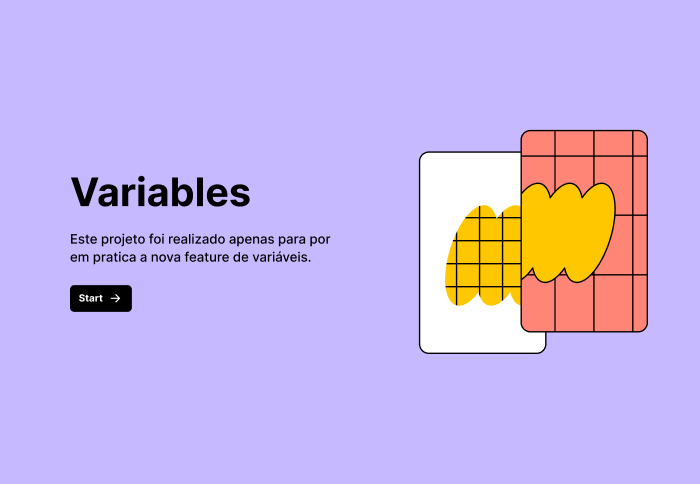
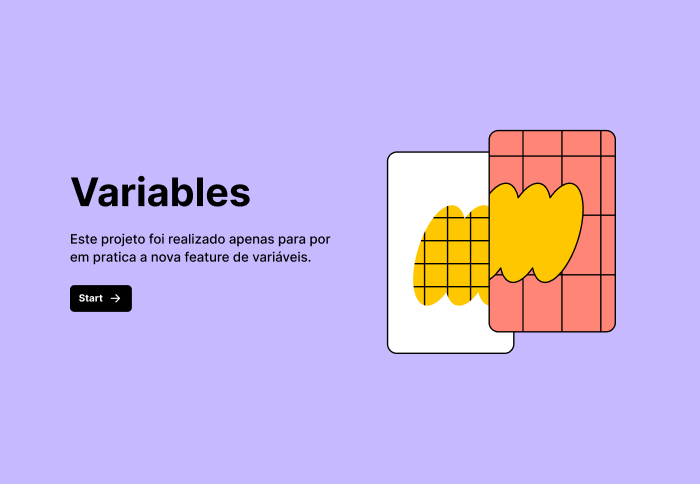
update

Changed region(s): [[0.54, 0.2479, 0.78, 0.7438], [0.78, 0.2479, 0.93, 0.7128], [0.78, 0.2789, 0.81, 0.4029]]

diff --git a/index.html b/index.html
@@ -163,17 +163,17 @@
       <div class="container">
         <a title="Clique para visualizar o projeto" href="https://www.behance.net/gallery/174834333/Gooday" target="_blank">
           <div class="card">
-            <img src="assets/img/gooday.jpg" alt="Projeto Gooday">
+            <img class="img-project" src="assets/img/gooday.jpg" alt="Projeto Gooday">
           </div>
         </a>
         <a title="Clique para visualizar o projeto" href="https://www.figma.com/proto/s2uExbTQudPuZqpjO7p72K/Variables?page-id=0%3A1&type=design&node-id=1-8&viewport=135%2C-259%2C0.46&t=ql5AVuvRlTdCcGNB-1&scaling=contain&starting-point-node-id=1%3A8&mode=design" target="_blank">
           <div class="card">
-            <img src="assets/img/variables.jpg" alt="Projeto Variables">
+            <img class="img-project" src="assets/img/variables.jpg" alt="Projeto Variables">
           </div>
         </a>
         <a title="Clique para visualizar o projeto" href="https://www.behance.net/gallery/142798985/Coffee-Shop-(atualizado-29122022)" target="_blank">
           <div class="card">
-            <img src="assets/img/e-ticket.jpg" alt="Projeto e-ticket">
+            <img class="img-project" src="assets/img/e-ticket.jpg" alt="Projeto e-ticket">
           </div>
         </a>
       </div>

diff --git a/assets/css/style.css b/assets/css/style.css
@@ -235,6 +235,11 @@ main {
   cursor: default;
 }
 
+.img-project {
+  height: inherit;
+  object-fit: cover;
+}
+
 .services .card img {
   width: max-content;
   margin-left: 50px;
@@ -352,10 +357,6 @@ footer {
 
   .text-info p {
     width: 600px;
-  }
-
-  .card {
-    width: 300px;
   }
 }
 
